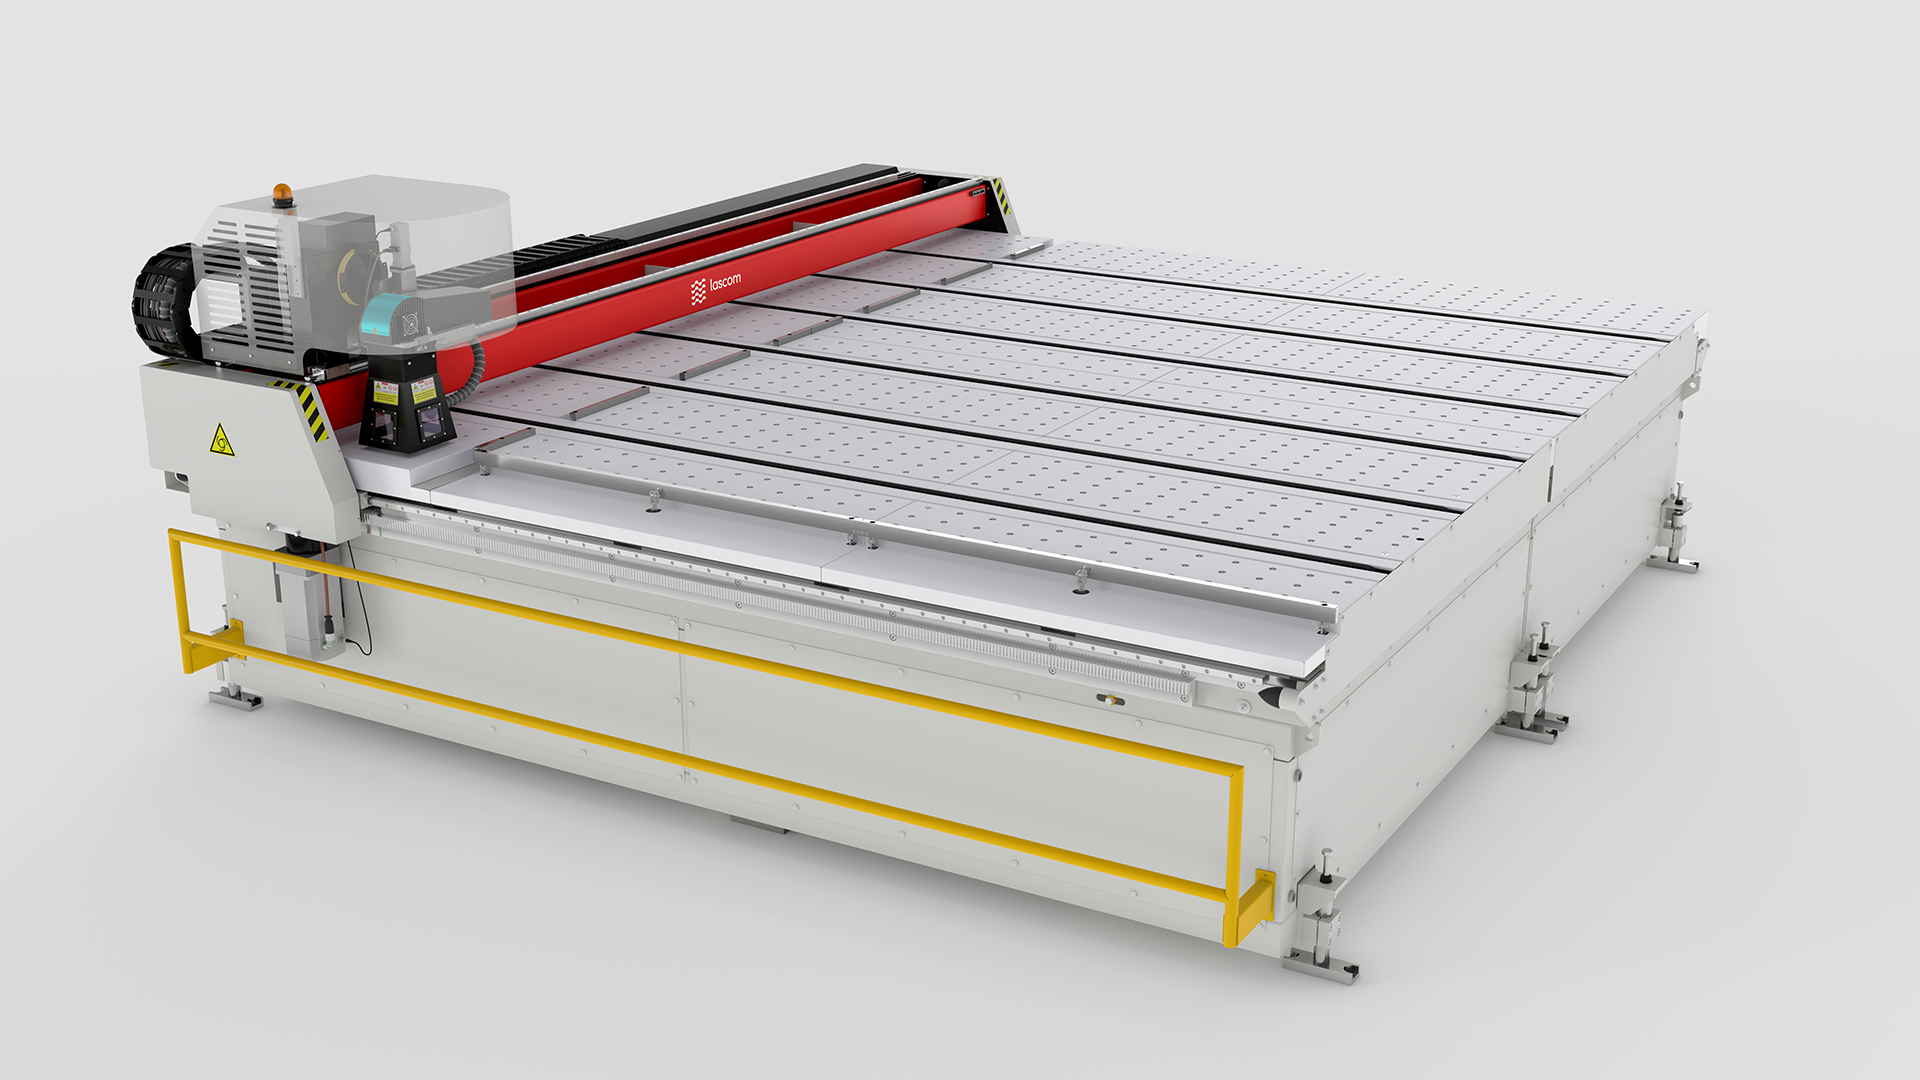
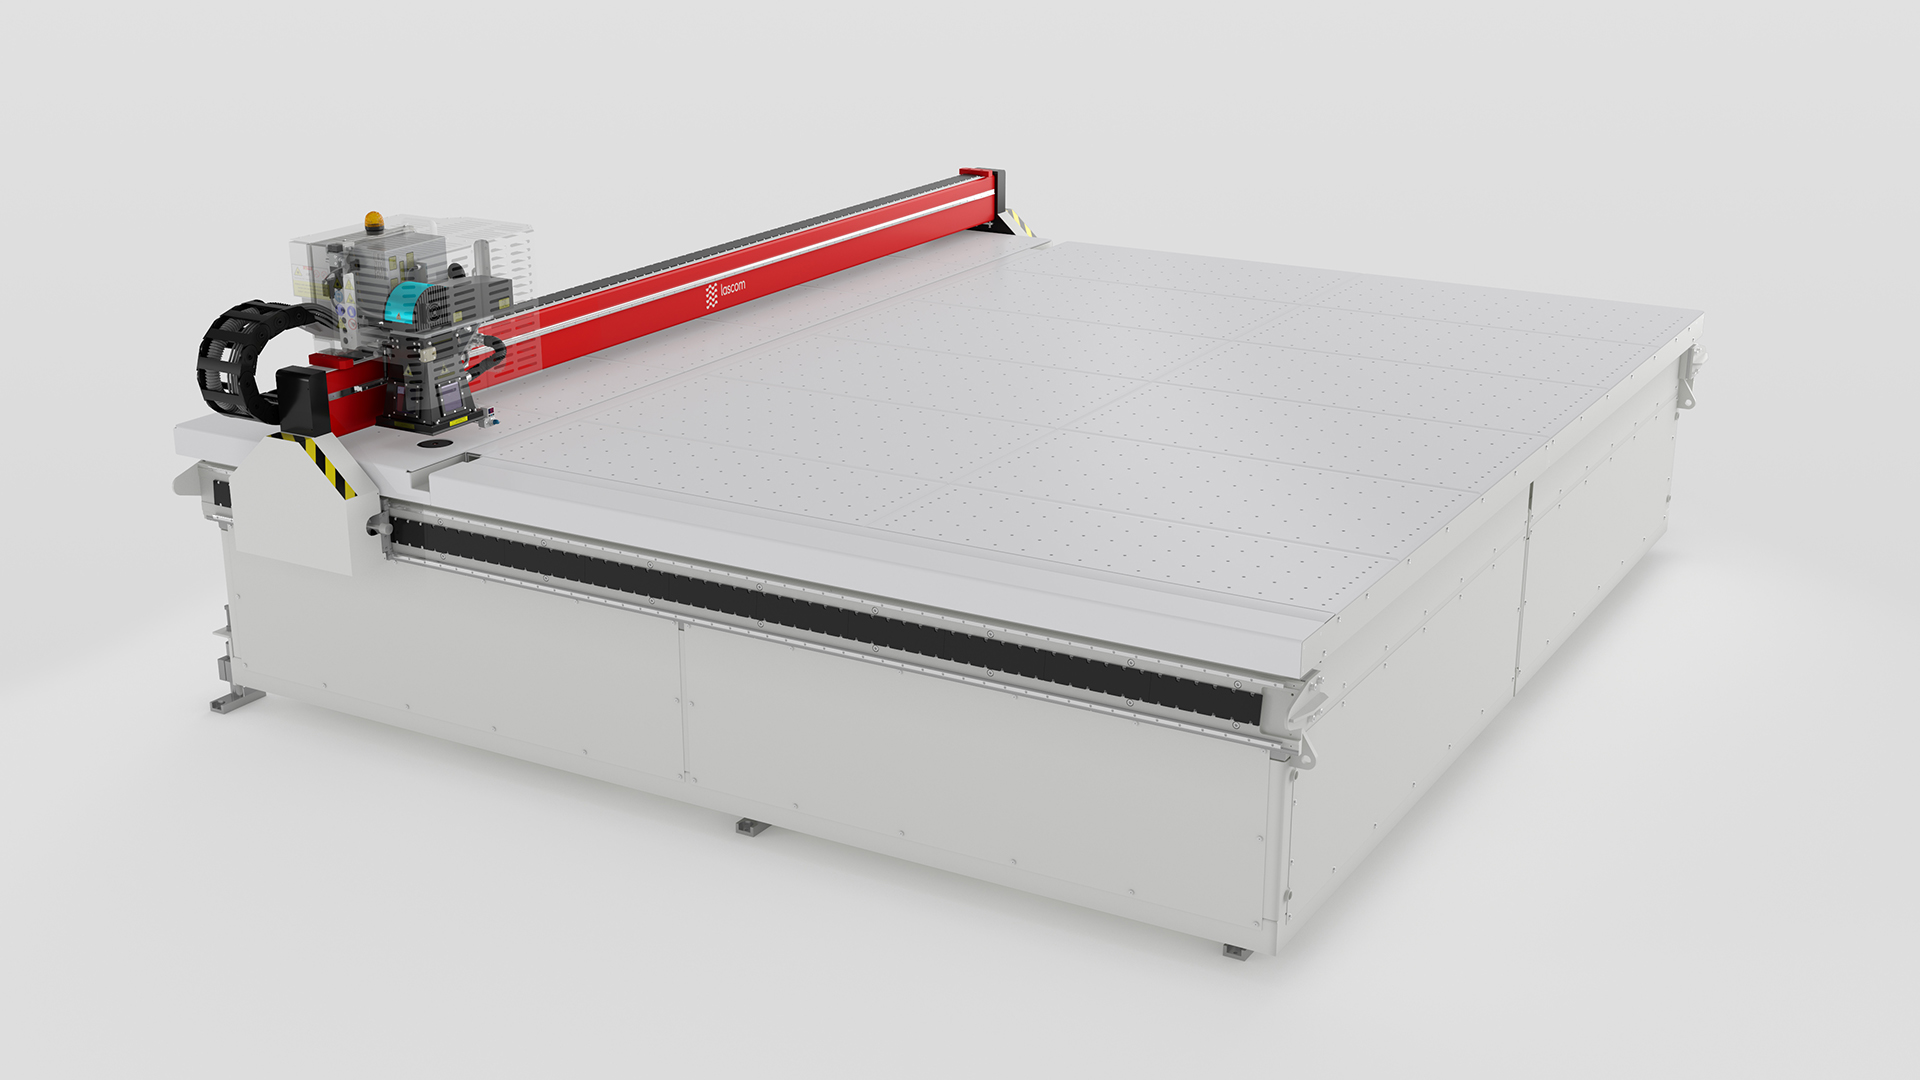
:wrench: ULSP machine update.

Changed region(s): [[0.0625, 0.1528, 0.9062, 0.9167], [0.7188, 0.4583, 0.9062, 0.7944]]

diff --git a/markup/modules/ulsp-machine-init/ulsp-machine-init.html b/markup/modules/ulsp-machine-init/ulsp-machine-init.html
@@ -33,10 +33,6 @@
             stops: {
               title: "Positioning locators",
               description: "Positioning locators (stops) come forward for positioning and get retracted afterwards, so&nbsp;as&nbsp;to&nbsp;not be&nbsp;in&nbsp;the way in&nbsp;the process of&nbsp;glass loading/unloading. The locators precisely adjust the glass edges to&nbsp;the coordinate grid."
-            },
-            belts: {
-              title: "Transport system",
-              description: "Transport system is&nbsp;of&nbsp;use when the table operates together with a&nbsp;loading station and, in&nbsp;the case of&nbsp;straight shaped glass sheets, glass sheets are loaded and transported from the table automatically (additional delivery)."
             }
           }
         },
@@ -75,10 +71,6 @@
                     safetySensors: {
                       title: "Датчики безопасности",
                       description: "Датчики безопасности срабатывают при пересечении оператором зоны безопасности, останавливая моторы и&nbsp;устраняя лазерное излучение (поставляются дополнительно)."
-                    },
-                    belts: {
-                      title: "Транспортная система",
-                      description: "Транспортная система незаменима при применении автоматической загрузочной станции и&nbsp;транспортировке прямолинейных листов стекла на&nbsp;стол в&nbsp;зону его автоматического позиционирования. Данная система позволяет как загружать стекло на&nbsp;стол, так и&nbsp;выводить стекло со&nbsp;стола (поставляется дополнительно)."
                     }
           }
         }
@@ -135,11 +127,6 @@
                 id: 'stops',
                 color: '#f44',
                 src: 'static/img/plugins/machine/machine-stops.\{\{01\}\}.svg'
-            },
-            {
-                id: 'belts',
-                color: '#f44',
-                src: 'static/img/plugins/machine/machine-belts.\{\{01\}\}.svg'
             }]
         });
     }
